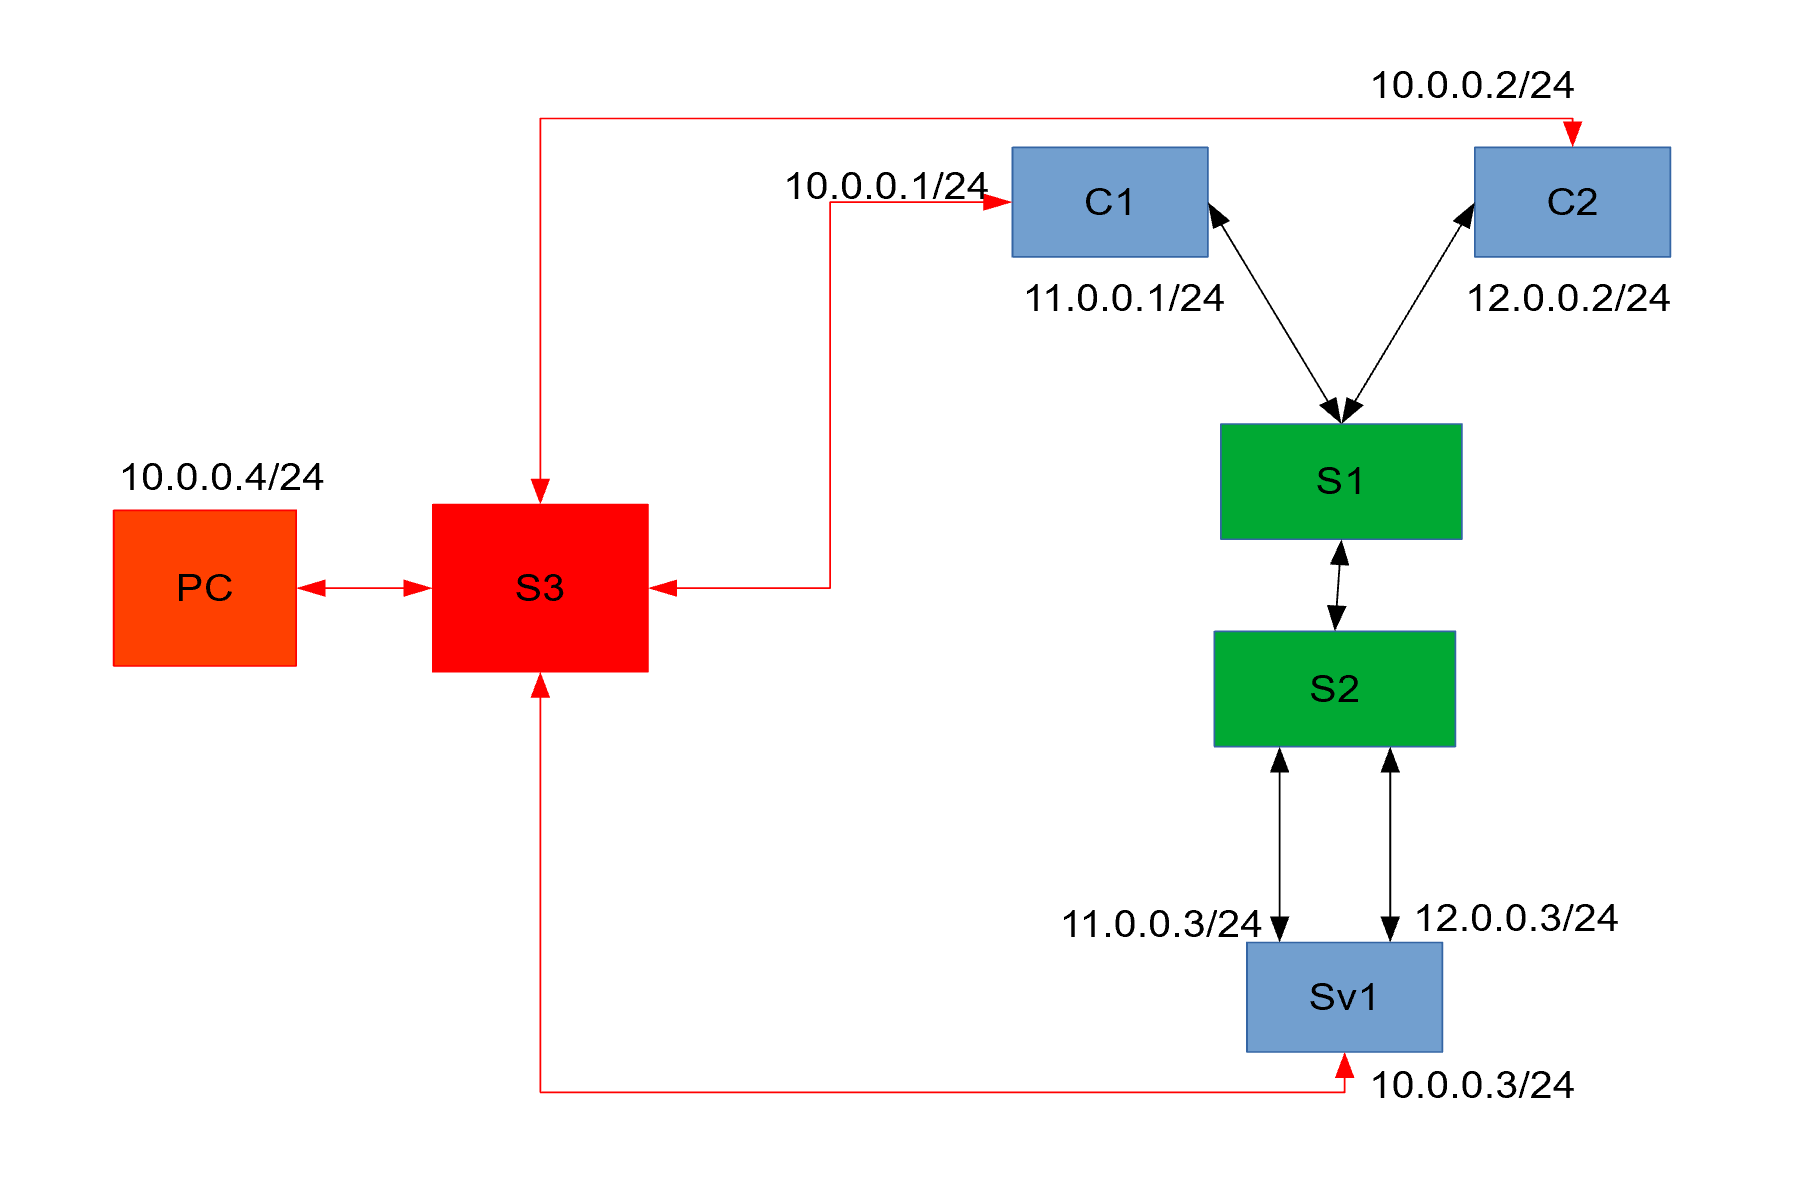
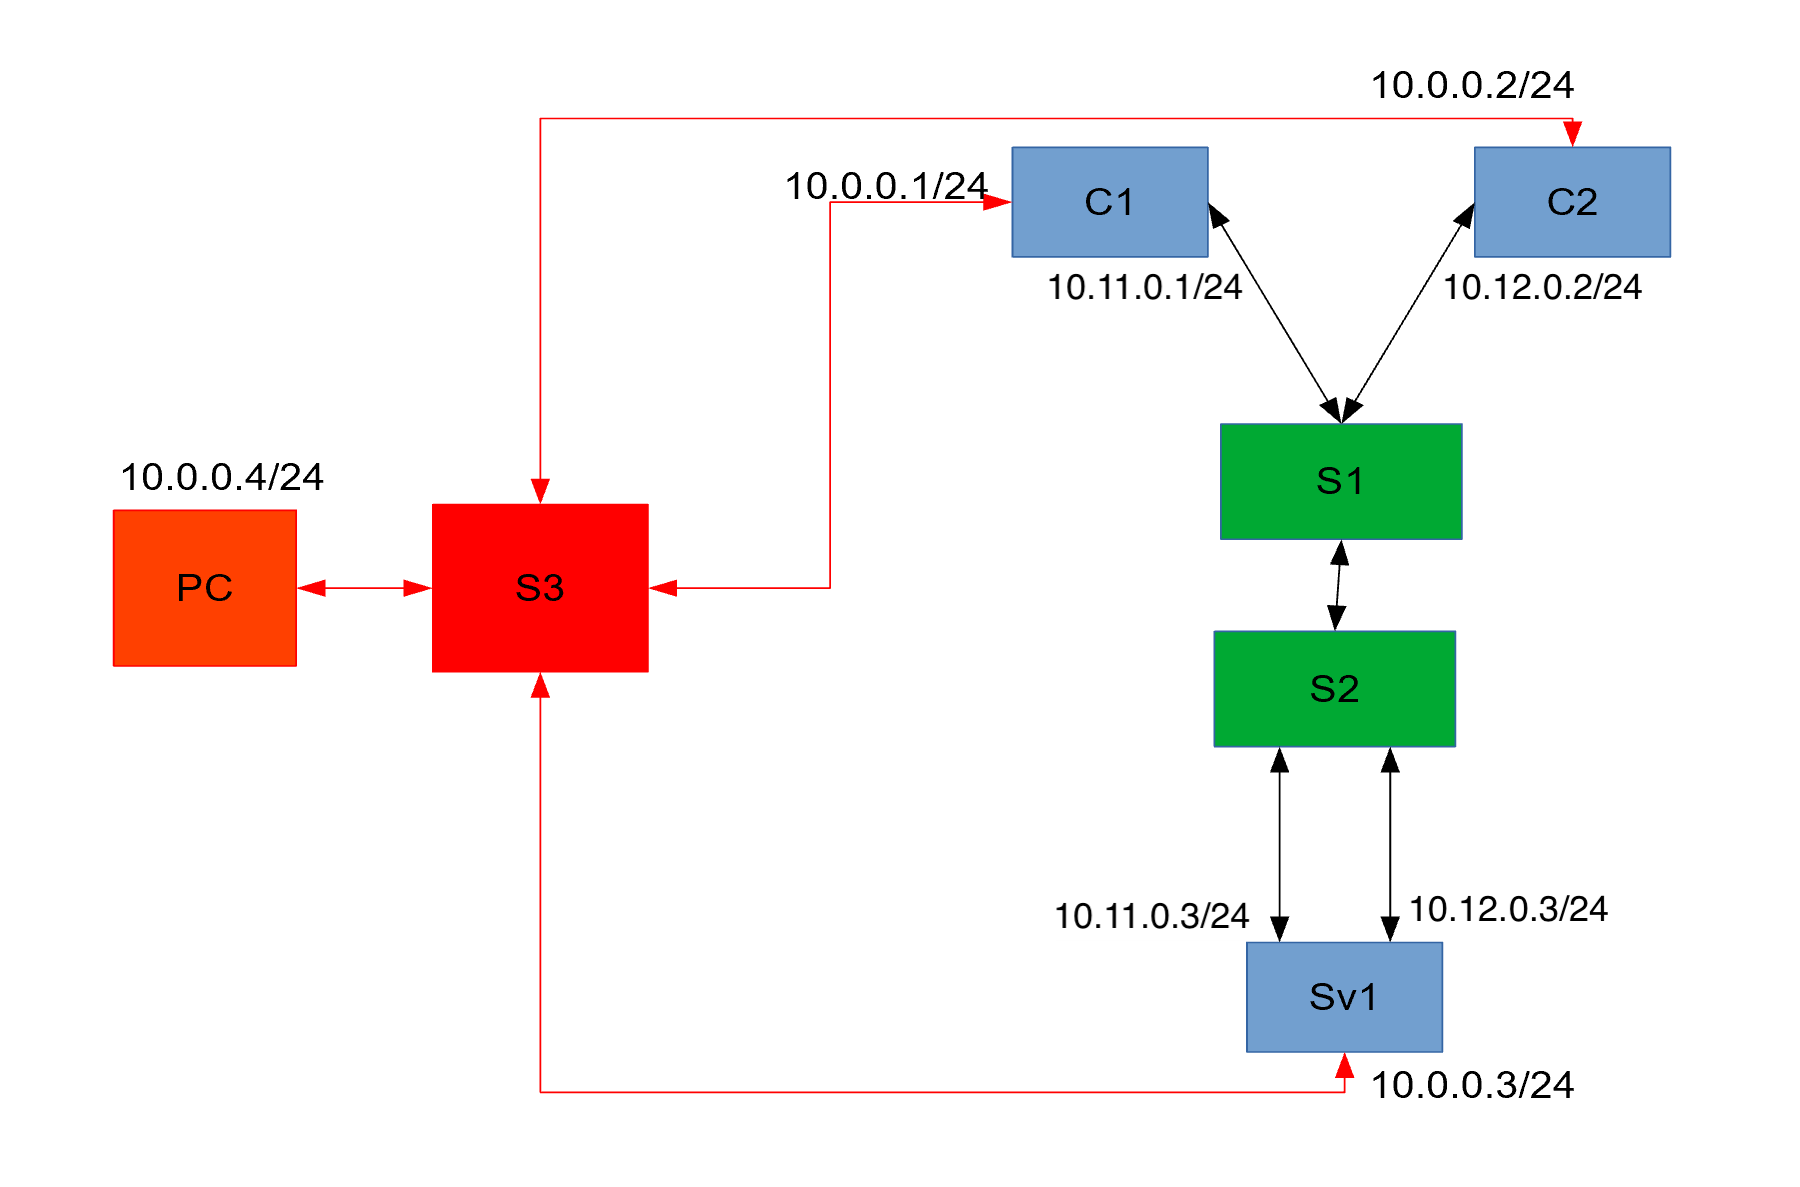
Updated IP Network Space for ws20/21 in versuch3, changed ip space in versuch 4 to not use public ip space from AT&T and the DoD.

diff --git a/versuch3/scripts/topology.py b/versuch3/scripts/topology.py
@@ -1,4 +1,4 @@
-#!/usr/bin/python
+#! /usr/bin/env python3
 
 from mininet.net import Mininet
 from mininet.cli import CLI
@@ -13,19 +13,19 @@ class MyTopo(Topo):
         Topo.__init__(self)
 
         # create hosts
-        lukas = self.addHost('lukas', ip='10.0.0.2/24')
-        lisa = self.addHost('lisa', ip='10.0.0.3/24')
-        ela = self.addHost('ela', ip='10.0.0.4/24')
-        ben = self.addHost('ben', ip='10.0.0.5/24')
-        elias = self.addHost('elias', ip='10.0.0.6/24')
+        lukas = self.addHost('lukas', ip='10.0.0.2/26')
+        lisa = self.addHost('lisa', ip='10.0.0.3/26')
+        ela = self.addHost('ela', ip='10.0.0.4/26')
+        ben = self.addHost('ben', ip='10.0.0.5/26')
+        elias = self.addHost('elias', ip='10.0.0.6/26')
 
-        nas = self.addHost('nas', ip='10.0.3.2/24')
+        nas = self.addHost('nas', ip='10.0.1.2/29')
 
         # create switch
         sw1 = self.addSwitch('sw1')
 
         # create router
-        r1 = self.addHost('r1', ip='10.0.0.1/24')
+        r1 = self.addHost('r1', ip='10.0.0.1/26')
 
         # do the wiring
         # - hosts to switch
@@ -42,13 +42,13 @@ class MyTopo(Topo):
 # configuration
 def conf(network):
     # router addresses
-    network['r1'].cmd('ip addr add 10.0.0.1/24 brd + dev r1-eth0')
-    network['r1'].cmd('ip addr add 10.0.2.1/24 brd + dev r1-eth1')
+    network['r1'].cmd('ip addr add 10.0.0.1/26 brd + dev r1-eth0')
+    network['r1'].cmd('ip addr add 10.0.2.1/29 brd + dev r1-eth1')
     network['r1'].cmd('echo 1 > /proc/sys/net/ipv4/ip_forward')
 
     # router routing
-    network['r1'].cmd('ip route add 10.0.0.0/24 dev r1-eth0')
-    network['r1'].cmd('ip route add 10.0.3.0/24 dev r1-eth1')
+    network['r1'].cmd('ip route add 10.0.0.0/26 dev r1-eth0')
+    network['r1'].cmd('ip route add 10.0.1.0/29 dev r1-eth1')
 
     # client routing
     network['ela'].cmd('ip route add default via 10.0.0.1')
@@ -57,7 +57,7 @@ def conf(network):
     network['lukas'].cmd('ip route add default via 10.0.0.1')
     network['elias'].cmd('ip route add default via 10.0.0.1')
 
-    network['nas'].cmd('ip route add default via 10.0.3.1')
+    network['nas'].cmd('ip route add default via 10.0.1.1')
 
 
 def nettopo(**kwargs):

diff --git a/versuch4/scripts/mininet_base.py b/versuch4/scripts/mininet_base.py
@@ -13,9 +13,9 @@ from mininet.node import OVSController
 class NetTopo(Topo):
     def __init__(self, loss):
         Topo.__init__(self)
-        c1 = self.addHost('c1', ip='11.0.0.1/24')
-        c2 = self.addHost('c2', ip='12.0.0.2/24')
-        sv1 = self.addHost('sv1', ip='11.0.0.3/24')
+        c1 = self.addHost('c1', ip='10.11.0.1/24')
+        c2 = self.addHost('c2', ip='10.12.0.2/24')
+        sv1 = self.addHost('sv1', ip='10.11.0.3/24')
         s1 = self.addSwitch('s1')
         s2 = self.addSwitch('s2')
         s3 = self.addSwitch('s3')
@@ -31,11 +31,11 @@ class NetTopo(Topo):
         self.addLink(s3, sv1)
 
 def conf(net):
-    net['c1'].cmd('ifconfig c1-eth1 10.0.0.1/24')
-    net['c2'].cmd('ifconfig c2-eth1 10.0.0.2/24')
-    net['sv1'].cmd('ifconfig sv1-eth2 10.0.0.3/24')
+    net['c1'].cmd('ip addr add 10.0.0.1/24 dev c1-eth1')
+    net['c2'].cmd('ip addr add 10.0.0.2/24 dev c2-eth1')
+    net['sv1'].cmd('ip addr add 10.0.0.3/24 dev sv1-eth2')
 
-    net['sv1'].cmd('ifconfig sv1-eth1 12.0.0.3/24')
+    net['sv1'].cmd('ip addr add 10.12.0.3/24 dev sv1-eth1')
 
 def sshd(net):
     root = Node('root', inNamespace=False)

diff --git a/versuch4/aufgabenstellung.md b/versuch4/aufgabenstellung.md
@@ -88,8 +88,8 @@ Für den Versuch haben wir Ihnen in den Skripten unter `~/Schreibtisch/kn1lab/ve
 
 | Server (`sv1`)             | Client-1 (`c1`)      | Client-2 (`c2`)      |
 |----------------------------|----------------------|----------------------|
-| sv1-eth0 (11.0.0.3)        | c1-eth0 (11.0.0.1)   | c2-eth0 (12.0.0.2)   |
-| sv1-eth1 (12.0.0.3)        | c1-eth1 (SSH)        | c2-eth1 (SSH)        |
+| sv1-eth0 (10.11.0.3)       | c1-eth0 (10.11.0.1)  | c2-eth0 (10.12.0.2)  |
+| sv1-eth1 (10.12.0.3)       | c1-eth1 (SSH)        | c2-eth1 (SSH)        |
 | sv1-eth2 (SSH)             |                      |                      |
 | `--nics sv1-eth0 sv1-eth1` | `--nics c1-eth0`     | `--nics c2-eth0`     |
 
@@ -127,7 +127,7 @@ Wichtig: Durch zu große Fluktutation sehen die Kurven der Bandbreite-Beschränk
 iperf3 -c <IP-Addresse des Servers> -Z -t 60 -b 1M
 ```
 
-1. Generieren Sie mit Hilfe von `iperf3` einen TCP-Datenstrom zwischen Client `c1` und Server `sv1`. Dabei soll der `iperf3`-Client auf `c1` und der `iperf3`-Server auf `sv1` laufen. Ob Sie die IP-Adresse `11.0.0.3` oder `12.0.0.3` verwenden, ist Ihnen überlassen. `iperf3` gibt das Staukontrollfenster `CWND` des TCP-Datenstroms aus. Wie verhält sich dieses und wie hoch ist es, nachdem der Strom eine Weile gelaufen ist?
+1. Generieren Sie mit Hilfe von `iperf3` einen TCP-Datenstrom zwischen Client `c1` und Server `sv1`. Dabei soll der `iperf3`-Client auf `c1` und der `iperf3`-Server auf `sv1` laufen. Ob Sie die IP-Adresse `10.11.0.3` oder `10.12.0.3` verwenden, ist Ihnen überlassen. `iperf3` gibt das Staukontrollfenster `CWND` des TCP-Datenstroms aus. Wie verhält sich dieses und wie hoch ist es, nachdem der Strom eine Weile gelaufen ist?
 
 1. Zeichen Sie diesen Datenstrom nun auf dem Server `sv1` mit Hilfe von `cpunetlog` für 1 Minute auf und stellen Sie das Ergebnis grafisch dar. Dazu müssen Sie über ein anderes Terminal eine weitere SSH-Verbindung zu `sv1` aufbauen. Achten Sie darauf, nur die Daten der relevanten Netzwerkschnittstelle aufzuzeichnen, sowie die Plots entsprechend zu skalieren und denken Sie daran das Ergebnis für die Abgabe auf dem Schreibtisch abzuspeichern.
 

diff --git a/versuch3/aufgabenstellung.md b/versuch3/aufgabenstellung.md
@@ -33,8 +33,8 @@ Hier ist die aktualisierte Liste. Schauen Sie sich die neuen Geräte und deren I
 
 | Gerät             | Typ        | IP                                        |
 |-------------------|------------|-------------------------------------------|
-| r1 (Garage)       | Router     | 10.0.0.1/24, 10.0.3.1/24, **10.0.2.1/24** |
-| **r2 (Buero)**    | **Router** | **10.0.2.2/24, 10.0.4.1/24**              |
+| r1 (Garage)       | Router     | 10.0.0.1/26, 10.0.1.1/29, **10.0.1.64/31** |
+| **r2 (Buero)**    | **Router** | **10.0.2.1/25, 10.0.1.65/31**              |
 | sw1               | Switch     | Keine IP                                  |
 | **sw2**           | **Switch** | **Keine IP**                              |
 | NAS               | Host       | 10.0.3.2                                  |
@@ -43,9 +43,9 @@ Hier ist die aktualisierte Liste. Schauen Sie sich die neuen Geräte und deren I
 | Ben               | PC         | 10.0.0.4                                  |
 | Lukas             | PC         | 10.0.0.5                                  |
 | Elias             | PC         | 10.0.0.6                                  |
-| **Burak**         | **PC**     | **10.0.4.2**                              |
+| **Burak**         | **PC**     | **10.0.2.2**                              |
 
-1. Für das neue Büro stehen uns `/24` IP-Adressen zur Verfügung. Wie viele Geräte können hier maximal genutzt werden?
+1. Für das neue Büro stehen uns `/25` IP-Adressen zur Verfügung. Wie viele Geräte können hier maximal genutzt werden?
 
 1. Fügen Sie die neuen Geräte und ihre IP-Adressen in die Zeichnung ein. Erweitern Sie die existierende Topologie in `~/kn1lab/versuch3/scripts/topology.py` mit den neuen Geräten, IP-Adressen, Subnetzen und Routen.
 
